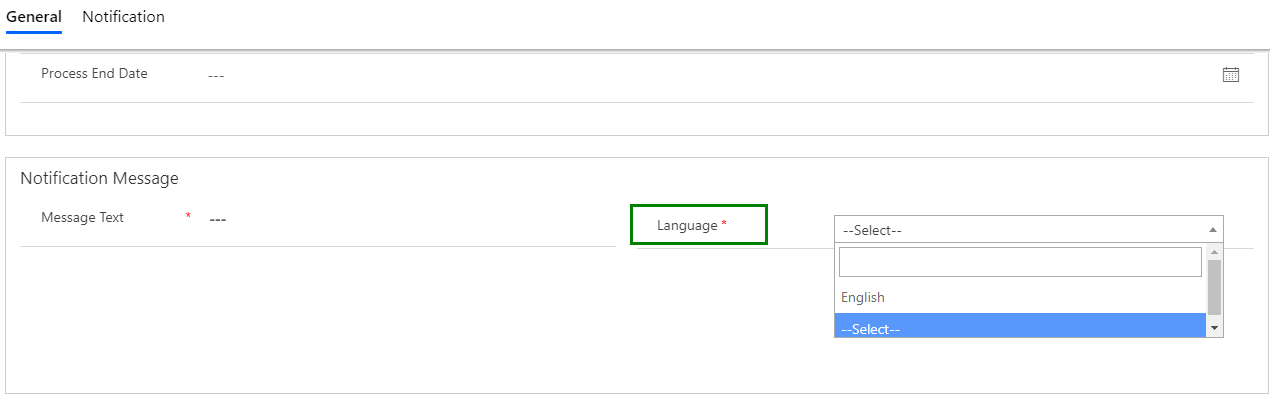
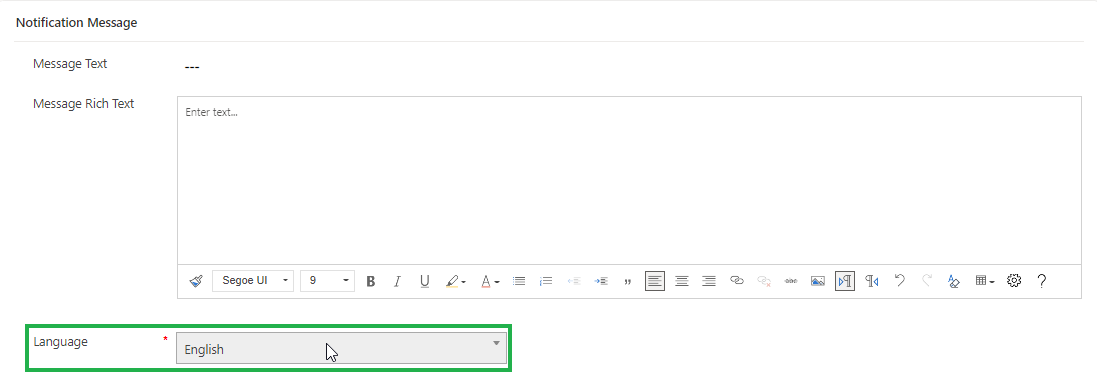
GitBook: [#3126] No subject

diff --git a/alerts4dynamics/configuration/messages.md b/alerts4dynamics/configuration/messages.md
@@ -18,7 +18,7 @@ Given below are the steps to add multiple messages to an existing Alert.
   * **Name:** This is the name of the message you are trying to create.&#x20;
   * **Alert:** This is the Alert for which you are creating the message.&#x20;
   * **Message Text:** Enter the message you would like to display in the notification or send to the users as email. Users can also pass dynamic values here for e.g. Account {name} has been created, where {name} stands for Account’s name.&#x20;
-  * **Message Rich Text:** With Message Rich Text, users can create more interactive messages by doing all kinds of text formatting, adding links and images, etc., to make their messages more descriptive and engaging.
+  * **Message Rich Text:** Gives provision to create more interactive messages by doing all kinds of text formatting, adding links and images, etc., to make their messages more descriptive and engaging.
   * **Alert Level:** This can be categorized as **Information, Warning** and **Critical**. This determines the severity level of the Alert you are trying to create.&#x20;
   * **Alert As:** This is the mode of notifying your users. It can be done as:&#x20;
     * **Pop-Up:** The notification with message will pop-up post clicking the global notification bell button.&#x20;
@@ -29,7 +29,9 @@ Given below are the steps to add multiple messages to an existing Alert.
   * **Auto Dismissible:** Gives provision to configure the alerts as auto-dismissible/non auto-dismissible. If **‘Yes’** is selected then alerts will be automatically dismissed once the defined condition is no more satisfied. If **‘No’** is selected then alerts cannot be dismissed automatically even if it moves out of the defined condition in the alert configuration. **(Note: Is applicable to Rule-based and Event-based alerts. However, it only supports Record-based alert if the alert is configured using advanced message type.)**
   * **Email Workflow:** If the **‘Email Notification’** is selected in ‘**Alert As’** field then the user needs to create an OOB workflow for sending an email. We can send email notification to not only the CRM users but also the customers as well
 
-> **Note:  If both Message Text and Message Rich Text fields are filled then preference will be given to Message Rich Text.**
+{% hint style="info" %}
+**Note:  If both Message Text and Message Rich Text fields are filled, then preference will be given to Message Rich Text when displaying the notification.**
+{% endhint %}
 
 ![](../../.gitbook/assets/Message\_3.png)
 
